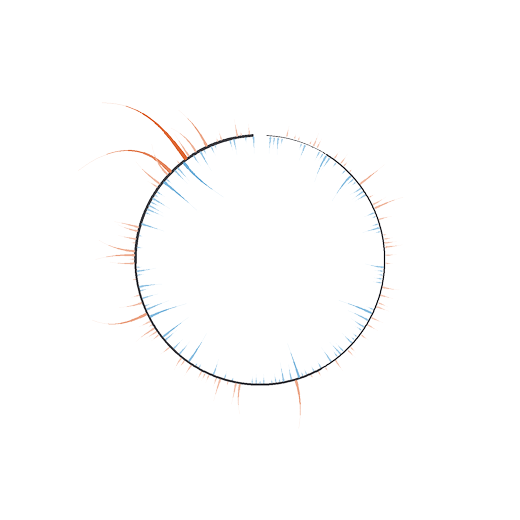
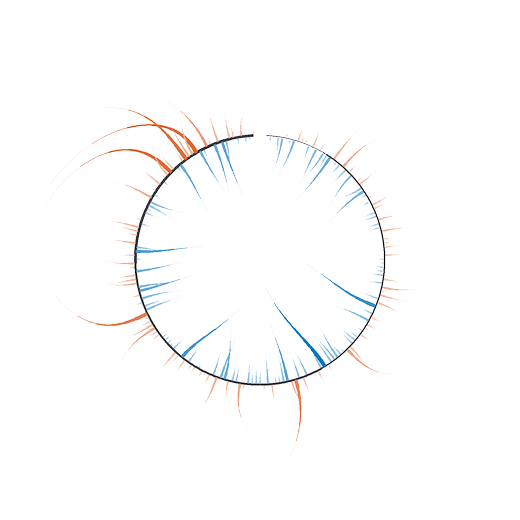
site: replace g1 'love' with Korean proverb 고생 끝에 낙이 온다
Re-render the signed g1 gallery glyph from the new caption text so the glyph
still encodes what the card shows (d=192, signed, 48% ring v10, AA
supersample=3; same recipe reproduces the live g4 byte-for-byte). Caption
marked lang="ko". Bump cache-buster g1 ?v=5→?v=6.

diff --git a/index.html b/index.html
@@ -287,7 +287,7 @@
       </div>
       <div class="grid">
         <div class="card"><div class="glow"><img src="assets/g2.png?v=5" alt="magnitude glyph"></div><div class="txt">&ldquo;The best thing to hold onto in life is each other.&rdquo;</div></div>
-        <div class="card"><div class="glow"><img src="assets/g1.png?v=5" alt="signed glyph"></div><div class="txt">&ldquo;love&rdquo;</div></div>
+        <div class="card"><div class="glow"><img src="assets/g1.png?v=6" alt="signed glyph"></div><div class="txt" lang="ko">&ldquo;고생 끝에 낙이 온다&rdquo;</div></div>
         <div class="card"><div class="glow"><img src="assets/g3.png?v=5" alt="muted glyph"></div><div class="txt">&ldquo;gravity&rdquo;</div></div>
         <div class="card"><div class="glow"><img src="assets/g4.png?v=6" alt="semantic glyph"></div><div class="txt">&ldquo;It is not enough to be in the right place at the right time. You should also have an open mind at the right time.&rdquo;</div></div>
         <div class="card"><div class="glow"><img src="assets/g5.png?v=5" alt="signed glyph of a paragraph"></div><div class="txt">&ldquo;Quantum entanglement is a physical phenomenon where the state of each particle cannot be described independently of the others, even across a vast distance.&rdquo;</div></div>
